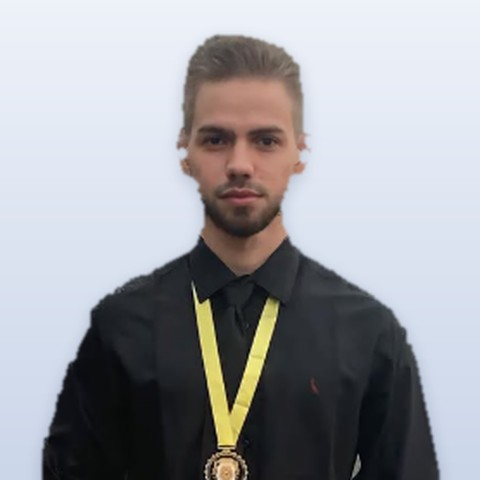
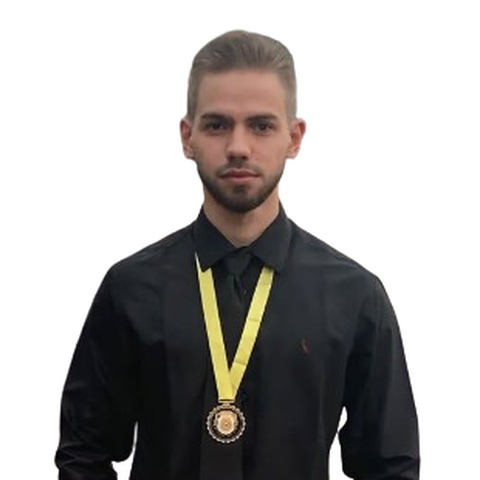
Add files via upload

diff --git a/js/app.js b/js/app.js
@@ -236,9 +236,9 @@
     const ordem = Object.keys(regioes).sort((a, b) => parseInt(a) - parseInt(b));
     const bloco = (olho, titulo, L, im) => L.length ? `<div><div class="cabeca-icone pequeno">${im ? img(im, titulo) : ''}<div><p class="olho">${olho}</p><h3>${titulo}</h3></div></div>${listaUnid(L)}</div>` : '';
     return `${faixa('Onde estamos', 'A Ordem DeMolay pelo Maranhão', `${ativos.length} Capítulos em atividade em ${N.cidadesAtivas} cidades, organizados em Oficialarias Executivas, além de Castelos, Priorados, Cortes e Clubes.`)}
-    ${secao(`${cabeca('Mapa', 'Nossas organizações no mapa', 'Clique em uma cidade para ver os Capítulos, Castelos, Priorados, Cortes e Clubes que funcionam nela.')}
+    ${secao(`${cabeca('Mapa', 'Nossas organizações no mapa', 'Todas as organizações DeMolay do Maranhão. Clique em um ponto para ver o nome, o endereço e o patrocínio.')}
       <div id="mapa" class="mapa" role="region" aria-label="Mapa das organizações DeMolay no Maranhão"><p class="vazio">Carregando o mapa…</p></div>
-      <p class="legenda"><span class="ponto ponto--ativo"></span> Cidade com Capítulo em atividade <span class="ponto"></span> Outras organizações</p>`)}
+      <p class="legenda">Cada ponto é uma organização. Pontos apagados são organizações inativas. Use as caixas no canto do mapa para mostrar ou esconder cada tipo.</p>`)}
     ${secao(`${cabeca('Capítulos DeMolay', 'Capítulos em atividade', 'Agrupados pela Oficialaria Executiva de cada região do Estado.')}
       <div class="linha-tempo">${ordem.map(r => `<div class="gestao"><div><p class="gestao__ano" style="font-size:22px">${esc(r.split(' - ')[0].replace('/Região', ''))}</p><p class="gestao__lema" style="font-style:normal">${esc(r.split(' - ')[1] || '')}</p></div>${listaUnid(regioes[r])}</div>`).join('')}</div>`)}
     ${secao(`${cabeca('Nossa história', 'Outros Capítulos do Maranhão', 'Capítulos que também fazem parte da história da Ordem no Estado.')}${listaUnid(outros)}`, 'secao--cinza')}
@@ -261,26 +261,59 @@
     'Barão de Grajaú': [-6.74, -43.03], 'Paraibano': [-6.43, -43.98], 'Balsas': [-7.53, -46.04], 'Imperatriz': [-5.53, -47.49],
     'Grajaú': [-5.82, -46.14], 'Carolina': [-7.34, -47.46], 'Açailândia': [-4.95, -47.51], 'Porto Franco': [-6.34, -47.40], 'Estreito': [-6.56, -47.45],
   };
+  // cidade não informada no SISDM: posição provável (ver LEIA-ME)
+  const CIDADE_PROVAVEL = { 'Rosa Fraterna|49': 'São Luís', 'Timbiras|16': 'São Luís' };
+  const TIPOS = [
+    ['Capítulos', 'capitulos', 'Capítulo', '#C8102E'],
+    ['Castelos', 'castelos', 'Castelo', '#E3A21A'],
+    ['Priorados', 'priorados', 'Priorado', '#2E8B57'],
+    ['Cortes de Chevalier', 'cortes', 'Corte', '#7B3FA0'],
+    ['Preceptorias', 'preceptorias', 'Preceptoria', '#0B2A61'],
+    ['Clubes de Mães e Amigos', 'clubes', 'Clube', '#D9468F'],
+    ['Colégios Alumni', 'colegios', 'Colégio Alumni', '#1597A6'],
+  ];
   function montaMapa() {
     const el = document.getElementById('mapa');
     if (!el) return;
     if (!window.L) { el.innerHTML = '<p class="vazio">O mapa aparece no site publicado.</p>'; return; }
     el.innerHTML = '';
-    const grupos = [['Capítulos', D.capitulos.filter(o => o.ativo), 'Capítulo'], ['Castelos', D.castelos.filter(o => o.ativo), 'Castelo'], ['Priorados', D.priorados.filter(o => o.situacao !== 'Inativo'), 'Priorado'],
-      ['Cortes de Chevalier', D.cortes, 'Corte'], ['Preceptorias', D.preceptorias, 'Preceptoria'], ['Clubes de Mães e Amigos', D.clubes.filter(o => o.ativo), 'Clube']];
-    const cid = {};
-    grupos.forEach(([g, L, t]) => L.forEach(o => { if (!COORD[o.cidade]) return; ((cid[o.cidade] ||= {})[g] ||= []).push(o); }));
+    // junta todas as organizações, ativas e inativas
+    const todas = [];
+    TIPOS.forEach(([grupo, chave, tipo, cor]) => {
+      (D[chave] || []).forEach(o => {
+        const org = Array.isArray(o) ? { n: o[0], nome: o[1], cidade: o[2], ativo: true } : o;
+        const cidade = org.cidade || CIDADE_PROVAVEL[org.nome + '|' + org.n] || '';
+        if (!COORD[cidade]) return;
+        todas.push({ ...org, cidade, grupo, tipo, cor });
+      });
+    });
+    // espalha os pontos de uma mesma cidade em volta do centro dela
+    const porCidade = {};
+    todas.forEach(o => (porCidade[o.cidade] ||= []).push(o));
     const mapa = L.map(el, { scrollWheelZoom: false }).setView([-5.3, -45.3], 6);
     L.tileLayer('https://{s}.tile.openstreetmap.org/{z}/{x}/{y}.png', { maxZoom: 15, attribution: '&copy; OpenStreetMap' }).addTo(mapa);
-    const marcas = [];
-    Object.entries(cid).forEach(([c, gs]) => {
-      const ativo = !!gs['Capítulos'];
-      const icone = L.divIcon({ className: '', html: `<span class="pino ${ativo ? 'pino--ativo' : ''}"></span>`, iconSize: [22, 22], iconAnchor: [11, 11] });
-      const html = `<div class="pop"><h4>${esc(c)}/MA</h4>${Object.entries(gs).map(([g, L]) => `<p class="pop__g">${g}</p>${L.map(o => `<p><b>${esc(o.nome)} nº ${o.n}</b>${o.endereco ? `<br><small>${esc(o.endereco)}</small>` : ''}</p>`).join('')}`).join('')}</div>`;
-      marcas.push(L.marker(COORD[c], { icon: icone, title: c }).addTo(mapa).bindPopup(html, { maxWidth: 280 }));
+    const camadas = {}; const marcas = [];
+    TIPOS.forEach(([grupo]) => { camadas[grupo] = L.layerGroup().addTo(mapa); });
+    Object.entries(porCidade).forEach(([cidade, L0]) => {
+      const [lat, lng] = COORD[cidade]; const n = L0.length;
+      L0.forEach((o, k) => {
+        // os pontos de uma mesma cidade formam uma espiral em pixels, que fica igual em qualquer zoom
+        const ang = k * 2.39996; const r = n === 1 ? 0 : 13 * Math.sqrt(k + 0.5);
+        const dx = Math.round(r * Math.cos(ang)), dy = Math.round(r * Math.sin(ang));
+        const pos = [lat, lng];
+        const icone = L.divIcon({ className: '', html: `<span class="pino ${o.ativo ? '' : 'pino--inativo'}" style="--cor:${o.cor}"></span>`, iconSize: [18, 18], iconAnchor: [9 - dx, 9 - dy], popupAnchor: [dx, dy - 6] });
+        const html = `<div class="pop"><p class="pop__g" style="color:${o.cor}">${o.tipo}${o.ativo ? '' : ' · inativo'}</p><h4>${esc(o.nome)} nº ${esc(o.n)}</h4><p>${esc(cidade)}/MA</p>${o.endereco ? `<p><small>${esc(o.endereco)}</small></p>` : ''}${o.patrocinio ? `<p><small>Patrocínio: ${esc(o.patrocinio)}</small></p>` : ''}</div>`;
+        const m = L.marker(pos, { icon: icone, title: `${o.tipo} ${o.nome}` }).bindPopup(html, { maxWidth: 280 });
+        camadas[o.grupo].addLayer(m); marcas.push(m);
+      });
     });
-    if (marcas.length) mapa.fitBounds(L.featureGroup(marcas).getBounds().pad(0.15));
+    const rotulos = {};
+    TIPOS.forEach(([grupo, , , cor]) => { rotulos[`<span class="leg-ponto" style="--cor:${cor}"></span>${grupo} (${todas.filter(o => o.grupo === grupo).length})`] = camadas[grupo]; });
+    L.control.layers(null, rotulos, { collapsed: false, position: 'topright' }).addTo(mapa);
+    const ajusta = () => { mapa.invalidateSize(); mapa.fitBounds(L.latLngBounds(Object.keys(porCidade).map(c => COORD[c])).pad(0.12)); };
+    ajusta(); setTimeout(ajusta, 250);
   }
+
 
   function unidade(o, tipo) {
     return `<div class="unidade ${o.ativo ? '' : 'inativa'}"><b>${esc(o.nome)} nº ${o.n}</b>

diff --git a/css/estilo.css b/css/estilo.css
@@ -368,3 +368,11 @@ td .cid { display: block; font-size: 13px; color: var(--suave); }
 
 :root[data-theme="dark"] .btn--azul { background: var(--azul2); }
 @media (prefers-color-scheme: dark) { :root:not([data-theme="light"]) .btn--azul { background: var(--azul2); } }
+
+/* Mapa: um ponto por organização */
+.pino { display: block; width: 18px; height: 18px; border-radius: 50%; background: var(--cor, #163C80); border: 2.5px solid #fff; box-shadow: 0 2px 6px rgba(0, 0, 0, .35); }
+.pino--inativo { opacity: .45; }
+.leg-ponto { display: inline-block; width: 12px; height: 12px; border-radius: 50%; background: var(--cor); border: 2px solid #fff; box-shadow: 0 0 0 1px rgba(0,0,0,.25); margin: 0 6px 0 4px; vertical-align: -1px; }
+.leaflet-control-layers { font: 500 13px/1.5 var(--corpo); color: #18223A; border-radius: 12px !important; }
+.leaflet-control-layers-overlays label { margin: 2px 0; }
+@media (max-width: 640px) { .leaflet-control-layers { font-size: 12px; } }
